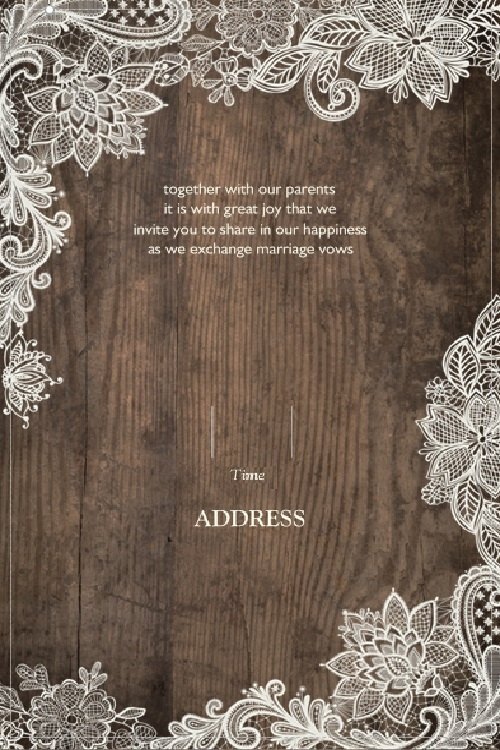
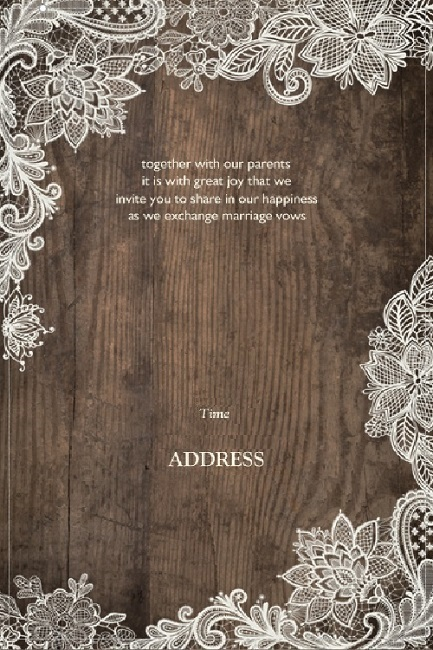
fix the layout

diff --git a/client/src/pages/invitation/Invitation.js b/client/src/pages/invitation/Invitation.js
@@ -71,7 +71,7 @@ class Invitation extends Component {
     address1: '1234 Santa Margarita Blvd',
     address2: 'Lake Forest, CA 92555',
     background: 'url("/static/images/invitation/paper01.jpg")',
-    titleFontSize: 40,
+    titleFontSize: 35,
     titleFontType: 'Arial',
     selectedDate: new Date(),
     selectedTime: new Date()
@@ -137,7 +137,7 @@ class Invitation extends Component {
       <main className={classes.root}>
         <PageHeader title='Invitation Maker' body='Invitation Maker' />
         <Grid container spacing={24}>
-          <Grid item xs={12} sm={12} md={4}>
+          <Grid item xs={12} sm={12} md={7}>
 
             <ExpansionPanel>
               <ExpansionPanelSummary expandIcon={<ExpandMoreIcon />}>
@@ -257,18 +257,18 @@ class Invitation extends Component {
             </ExpansionPanel>
           </Grid>
 
-          <Grid item xs={12} sm={12} md={8}>
+          <Grid item xs={12} sm={12} md={5}>
             <div id='saveArea' style={{ textAlign: 'center',
-              height: '750px',
+              height: '650px',
               fontFamily: titleFontType,
               backgroundImage: background,
               backgroundRepeat: 'no-repeat',
               backgroundSize: 'cover'}}>
-              <p style={{ color: 'white', fontSize: this.state.titleFontSize, padding: '330px 0 45px 0' }}> {title} </p>
-              <p style={{ color: 'white', fontSize: '40px', padding: '20px 0 0 0' }}> {date} </p>
+              <p style={{ color: 'white', fontSize: this.state.titleFontSize, padding: '280px 0 0 0' }}> {title} </p>
+              <p style={{ color: 'white', fontSize: '22px' }}> {date} </p>
               <p style={{ color: 'white', fontSize: '15px', padding: '20px 0 0 0' }}> {time} </p>
-              <p style={{ color: 'white', fontSize: '20px', padding: '15px 0 0 5px' }}> {address1} </p>
-              <p style={{ color: 'white', fontSize: '20px', margin: '-20px 0 0 0' }}> {address2} </p>
+              <p style={{ color: 'white', fontSize: '18px', padding: '13px 0 0 0' }}> {address1} </p>
+              <p style={{ color: 'white', fontSize: '18px', margin: '-20px 0 0 0' }}> {address2} </p>
             </div>
             <hr />
             <center>
